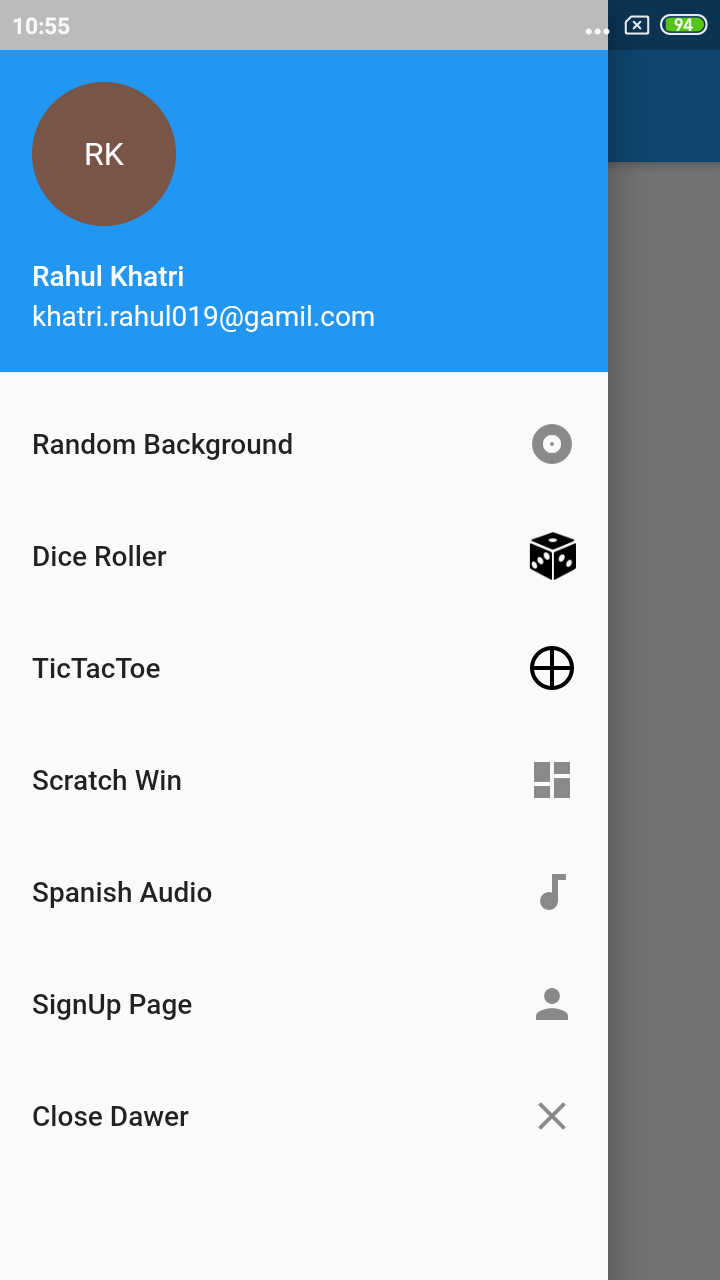
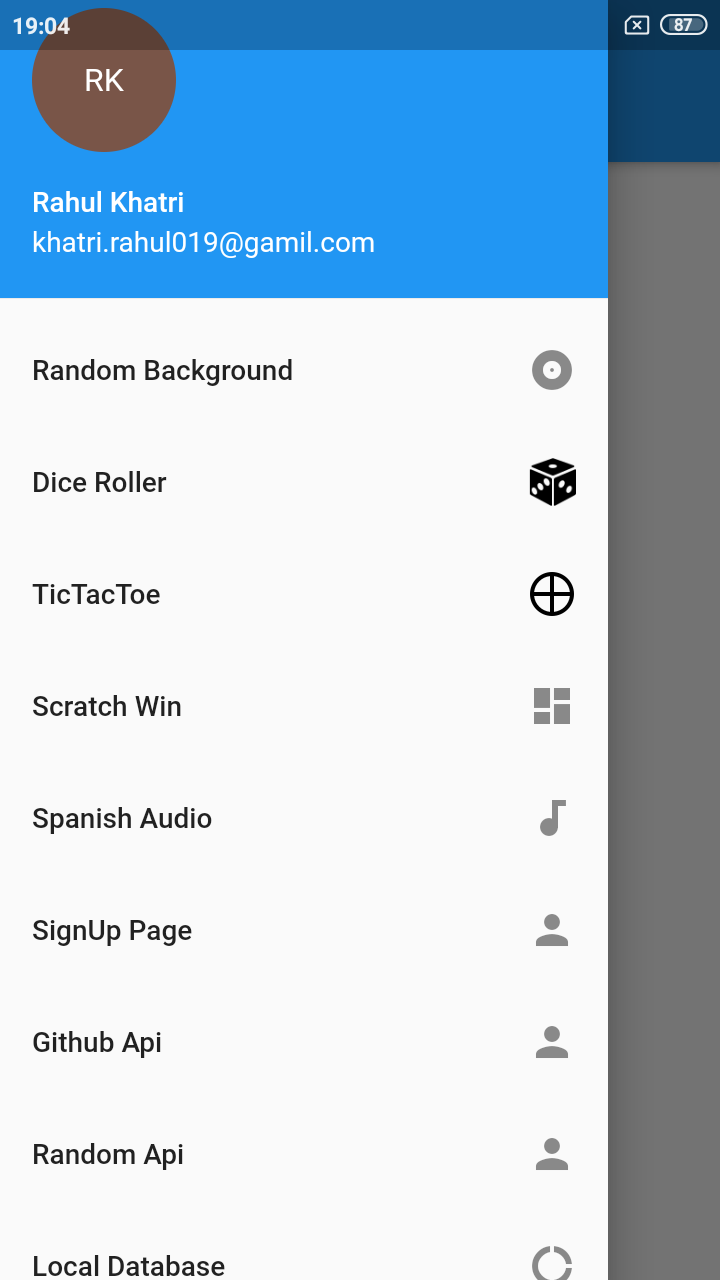
readme updated

diff --git a/README.md b/README.md
@@ -15,54 +15,170 @@ For help getting started with Flutter, view our
 [online documentation](https://flutter.dev/docs), which offers tutorials,
 samples, guidance on mobile development, and a full API reference.
 
+## What is inside app
 
-### Screenshot :
+- **Navigation Drawer** : Flutter [Navigation Drawer Docs](https://api.flutter.dev/flutter/widgets/Navigator-class.html)
+
+  - [code path](lib/navigation_drawer)
 
 <table>
   <tr>
     <td>
-      <img src="screenshot/drawer_home_page.png" width=270 />
+      <img src="screenshot/drawer_home_page.png" width=250 />
     </td>
     <td>
-      <img src="screenshot/drawer_page.png" width=270 />
+      <img src="screenshot/drawer_page.png" width=250 />
     </td>
     <td>
-      <img src="screenshot/background_ch_home_page.png" width=270 />
+      <img src="screenshot/drawer_page_2.png" width=250 />
     </td>
   </tr>
 </table>
 
-<table>
-  <tr>
-    <td>
-      <img src="screenshot/dice_roller.png" width=270 />
-    </td>
-    <td>
-      <img src="screenshot/tictactoe.png" width=270 />
-    </td>
-    <td>
-      <img src="screenshot/scratch_win.png" width=270 />
-    </td>
-  </tr>
-</table>
+- **Random Background**: Randomly changing background and button color on button click.
+
+  - [code path](lib/background_changer)
 
 <table>
   <tr>
     <td>
-      <img src="screenshot/spanish_audio.png" width=270 />
+      <img src="screenshot/background_ch_home_page.png" width=250 />
     </td>
     <td>
-      <img src="screenshot/signup_page.png" width=270 />
-    </td>
-    <td>
-      <img src="screenshot/signup_home_page.png" width=270 />
+      <img src="screenshot/background_ch_home_page_2.png" width=250 />
     </td>
     </tr>
+</table>
+
+- **Dice Roller**: Randomly changing dice images on button click.
+
+  - [code path](lib/dice_roller)
+
+<table>
+  <tr>
+    <td>
+      <img src="screenshot/dice_roller.png" width=250 />
+    </td>
+    <td>
+      <img src="screenshot/dice_roller_2.png" width=250 />
+    </td>
+  </tr>
+</table>
+
+- **Tic Tac Toe**: Simple Tic Tac Toe game.
+
+  - [code path](lib/tictactoe)
+
+<table>
+  <tr>
+    <td>
+      <img src="screenshot/tictactoe.png" width=250 />
+    </td>
+  </tr>
+</table>
+
+- **Scratch Win Game**: A game in which one of the tile (button) has a rupee image hidden behind it. only have three chance to find out.
+
+  - [code path](lib/scratch_win)
+
+<table>
+  <tr>
+    <td>
+      <img src="screenshot/scratch_win.png" width=250 />
+    </td>
+    <td>
+      <img src="screenshot/scratch_win_2.png" width=250 />
+    </td>
+  </tr>
+</table>
+
+- **Spanish Audio**: Audio Player App. flutter [*'audioplayers'* plugin](https://pub.dev/packages/audioplayers) used. assets folder contain some audio file which will be played this app.
+
+  - [code path](lib/spanish_audio)
+
+<table>
+  <tr>
+    <td>
+      <img src="screenshot/spanish_audio.png" width=250 />
+    </td>
+  </tr>
+</table>
+
+- **Signup Page**: Signup form page and transfer data to home page. [Global key](https://api.flutter.dev/flutter/widgets/GlobalKey-class.html) help to transfer data.
+
+  - [code path](lib/signup)
+
+<table>
+  <tr>
+    <td>
+      <img src="screenshot/signup_page.png" width=250 />
+    </td>
+    <td>
+      <img src="screenshot/signup_detail_page.png" width=250 />
+    </td>
+  </tr>
+</table>
+
+- **Github Api**: Github api : [api.github.com/users](https://api.github.com/users) used with help of flutter [*'http'* plugin](https://pub.dev/packages/http) which worked as networking library.
+
+  - [code path](lib/api_fetch/github_api)
+
+<table>
+  <tr>
+    <td>
+      <img src="screenshot/github_api.png" width=250 />
+    </td>
+  </tr>
+</table>
+
+- **Random Api**: Random user generating api : [randomuser.me/api/?results=50](https://randomuser.me/api/?results=50) used with help of flutter [*'http'* plugin](https://pub.dev/packages/http) which worked as networking library.
+
+  - [code path](lib/api_fetch/random_user)
+
+<table>
+  <tr>
+    <td>
+      <img src="screenshot/random_api.png" width=250 />
+    </td>
+  </tr>
+</table>
+
+- **Local Database**: Simple notes making app, it store notes in local database. [*'sqflite'* plugin](https://pub.dev/packages/sqflite) used as local database, [*'intl'* plugin](https://pub.dev/packages/intl) used to manipulate date, [*'path_provider'* plugin](https://pub.dev/packages/path_provider) used to get device/phone storage path.
+
+  - [code path](lib/db_todo)
+
+<table>
+  <tr>
+    <td>
+      <img src="screenshot/local_db_home_page.png" width=250 />
+    </td>
+    <td>
+      <img src="screenshot/local_db_add_note.png" width=250 />
+    </td>
+  </tr>
+</table>
+
+- **Firebase Authentication**: Firebase Authentication app simple signup, signin, and home page to show login. [Flutter Firebase Authentication docs](https://firebase.google.com/docs/flutter/setup)
+
+  - [code path](lib/firebase_auth)
+
+<table>
+  <tr>
+    <td>
+      <img src="screenshot/firebase_auth_signup.png" width=250 />
+    </td>
+    <td>
+      <img src="screenshot/firebase_auth_signin.png" width=250 />
+    </td>
+    <td>
+      <img src="screenshot/firebase_auth_home_page.png" width=250 />
+    </td>
+  </tr>
 </table>
 
 
 ### Credits :
 
-- Udemy Tutorial : [Complete Flutter Development.](https://www.udemy.com/course/complete-flutter-development) 
+- Udemy Tutorial : [Complete Flutter Development.](https://www.udemy.com/course/complete-flutter-development)
 - Icon by <a target="_blank" href="https://icons8.com">Icons8</a>
 - and few of my inputs and logic.
